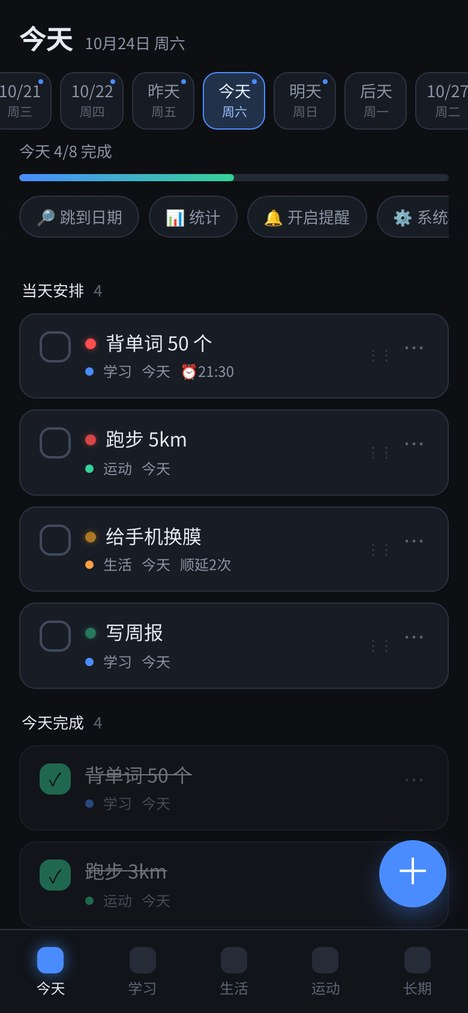
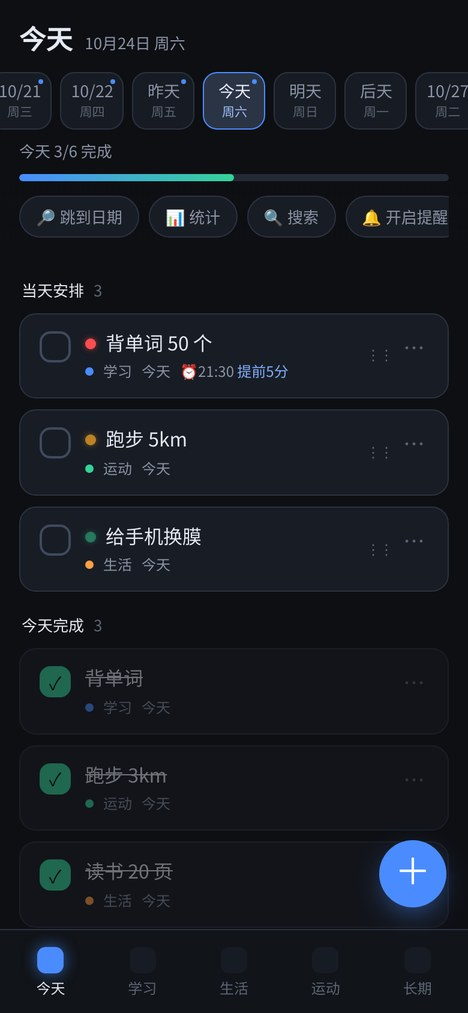
补 v1.10 截图：周历热力图 / 搜索 / 浅色模式

diff --git a/README.en.md b/README.en.md
@@ -12,7 +12,9 @@ No account, no server, no tracking. Your data stays on your phone.
 
 ![screenshot](docs/screenshots/home.jpg)　![stats](docs/screenshots/stats.jpg)
 
-![drag to reorder](docs/screenshots/drag.jpg)
+![weekly heat map](docs/screenshots/week.jpg)　![search](docs/screenshots/search.jpg)
+
+![light theme](docs/screenshots/light.jpg)　![drag to reorder](docs/screenshots/drag.jpg)
 
 ## Features
 

diff --git a/README.md b/README.md
@@ -10,7 +10,9 @@
 
 ![截图](docs/screenshots/home.jpg)　![统计](docs/screenshots/stats.jpg)
 
-![长按拖动排序](docs/screenshots/drag.jpg)
+![周历热力图](docs/screenshots/week.jpg)　![搜索](docs/screenshots/search.jpg)
+
+![浅色模式](docs/screenshots/light.jpg)　![长按拖动排序](docs/screenshots/drag.jpg)
 
 ## 功能
 
